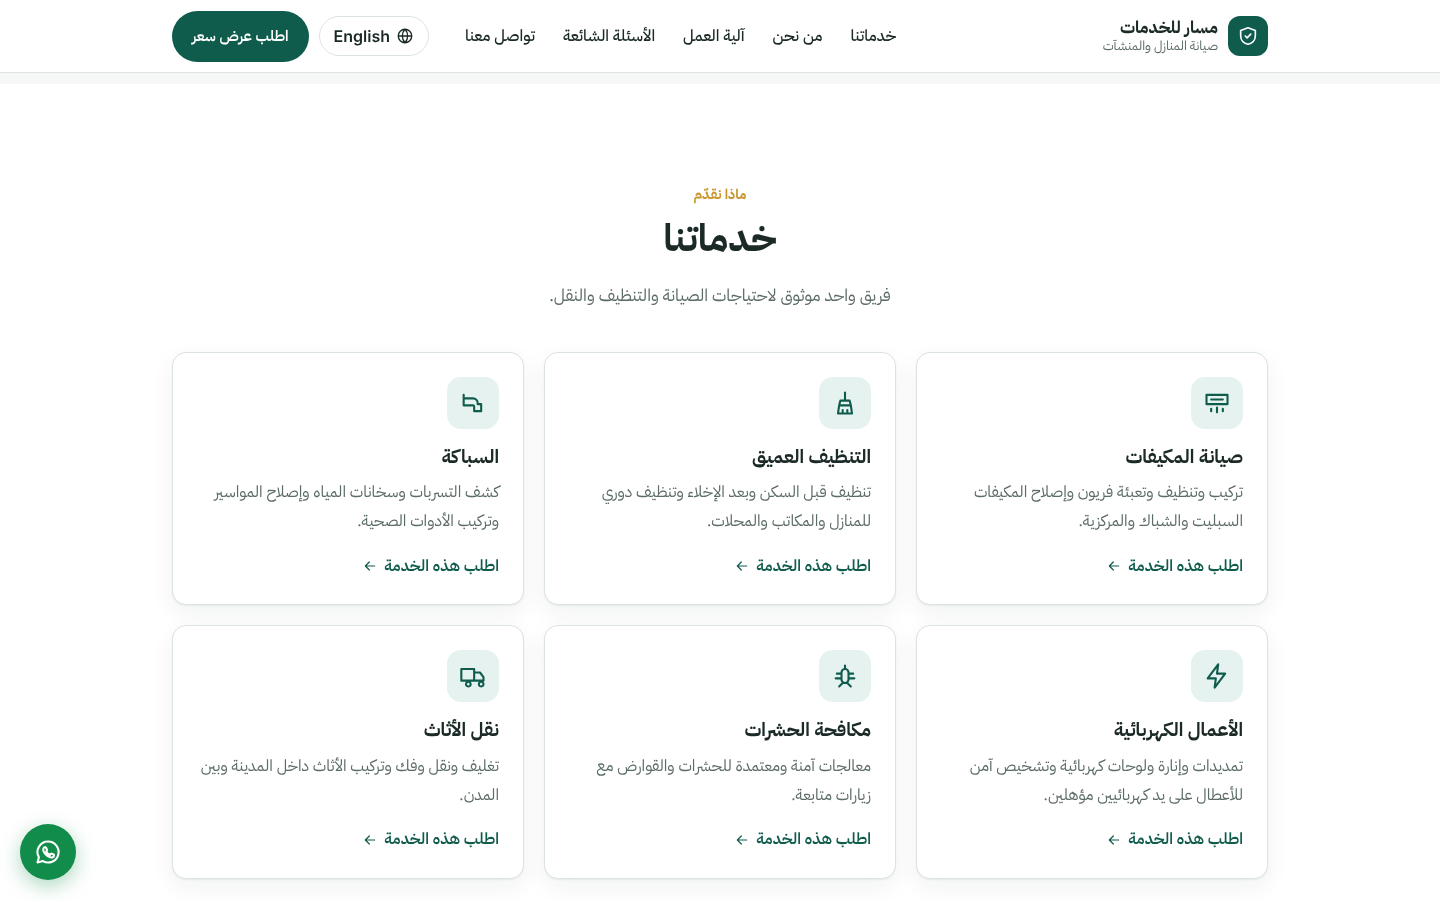
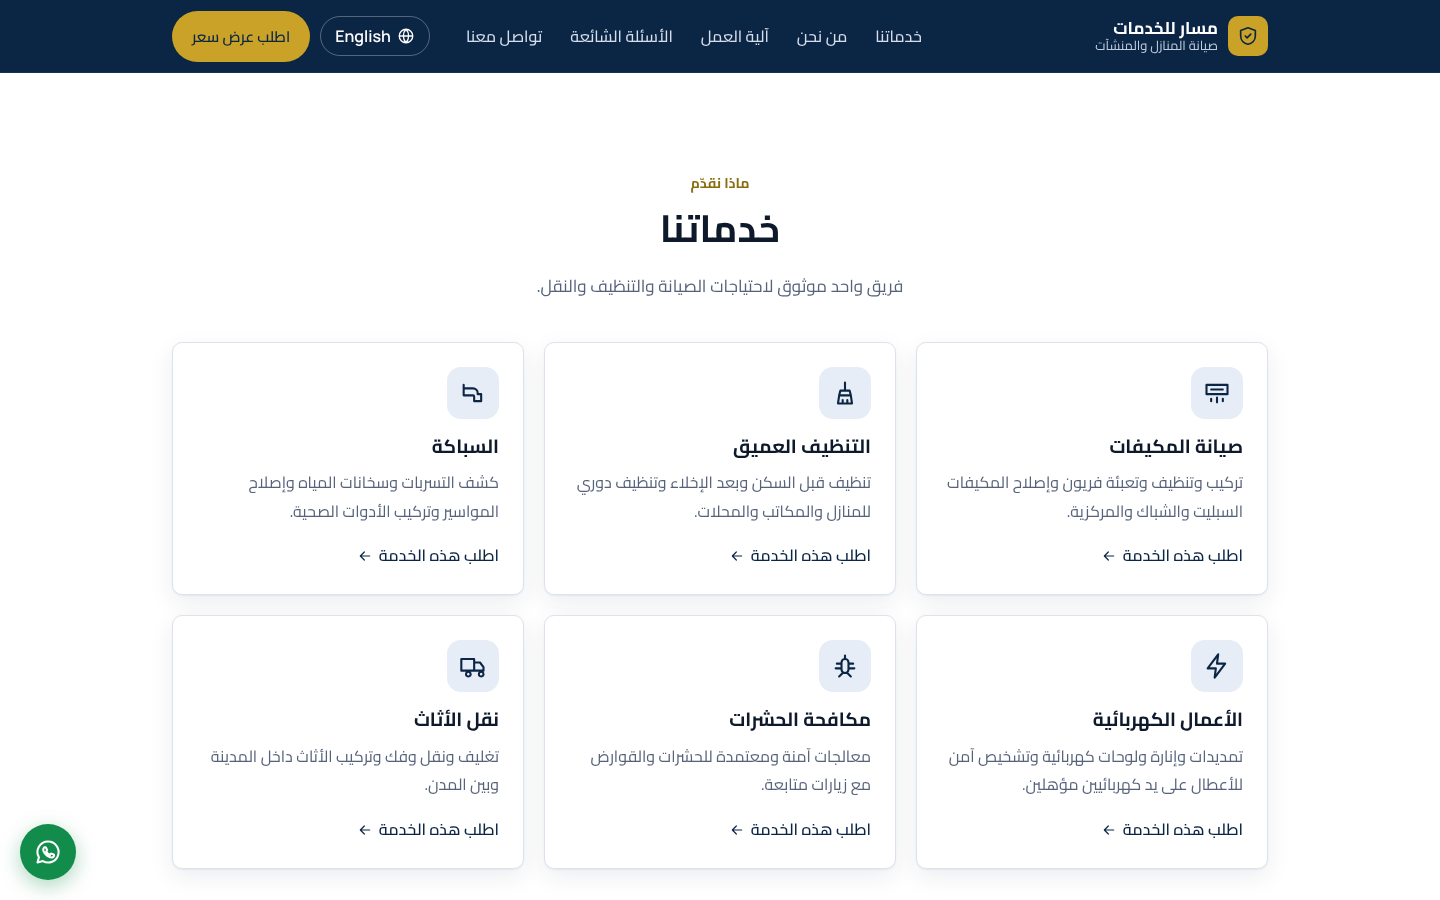
Restyle Masar with the navy and gold theme
Navy header, hero and footer with gold accents, Cairo (Arabic) and
Manrope (English) fonts via Fontsource, darker gold for small text on
white, and refreshed README screenshots and demo GIFs.

diff --git a/src/styles/global.css b/src/styles/global.css
@@ -5,18 +5,25 @@
    ========================================================================== */
 
 :root {
-  --color-primary: #0f5c4d;
-  --color-primary-dark: #0a4439;
-  --color-primary-soft: #e6f2ef;
-  --color-accent: #c9962f;
-  --color-accent-soft: #fbf3e2;
+  --color-primary: #0b2545;
+  --color-primary-dark: #061833;
+  --color-primary-soft: #e7edf6;
+  --color-accent: #c9a227;
+  --color-accent-soft: #faf3dc;
+  /* Darker gold for small text on light backgrounds (the bright gold is too faint there). */
+  --color-accent-text: #8a6d0f;
+  /* Navy hero/header surfaces and the lighter gold used on them. */
+  --color-navy-surface: #0b2545;
+  --color-navy-raised: #13325a;
+  --color-on-navy: #c3cfe0;
+  --color-gold-on-navy: #e3c35a;
   --color-whatsapp: #128c4a;
   --color-whatsapp-dark: #0d6d39;
-  --color-text: #1b2a27;
-  --color-muted: #5b6b67;
-  --color-border: #dbe4e1;
+  --color-text: #0e1a2b;
+  --color-muted: #56627a;
+  --color-border: #dde3ec;
   --color-bg: #ffffff;
-  --color-bg-alt: #f5f8f7;
+  --color-bg-alt: #f4f6fa;
   --color-error: #b42318;
   --color-error-soft: #fef3f2;
   --color-warning-soft: #fffaeb;
@@ -24,12 +31,12 @@
   --color-info-soft: #eef6ff;
   --color-info-border: #b9d7f7;
 
-  --font-latin: 'Inter Variable', 'Inter', system-ui, -apple-system, 'Segoe UI', Roboto, Arial, sans-serif;
-  --font-arabic: 'IBM Plex Sans Arabic', 'Noto Sans Arabic', 'Segoe UI', Tahoma, 'Geeza Pro', Arial, sans-serif;
+  --font-latin: 'Manrope Variable', 'Manrope', system-ui, -apple-system, 'Segoe UI', Roboto, Arial, sans-serif;
+  --font-arabic: 'Cairo Variable', 'Cairo', 'Noto Sans Arabic', 'Segoe UI', Tahoma, 'Geeza Pro', Arial, sans-serif;
 
-  --radius: 14px;
-  --radius-sm: 10px;
-  --shadow: 0 1px 2px rgb(16 40 34 / 6%), 0 8px 24px rgb(16 40 34 / 6%);
+  --radius: 10px;
+  --radius-sm: 8px;
+  --shadow: 0 1px 2px rgb(11 37 69 / 6%), 0 8px 24px rgb(11 37 69 / 8%);
   --header-h: 72px;
   --container: 1160px;
   --gutter: clamp(16px, 4vw, 32px);
@@ -307,8 +314,8 @@ main:focus {
   z-index: 50;
   /* No backdrop-filter here: it would become the containing block of the fixed
      mobile menu, and the off-canvas panel would then cause horizontal scrolling. */
-  background: rgb(255 255 255 / 97%);
-  border-block-end: 1px solid var(--color-border);
+  background: var(--color-navy-surface);
+  border-block-end: 1px solid var(--color-navy-raised);
 }
 .header-inner {
   display: flex;
@@ -320,7 +327,7 @@ main:focus {
   display: inline-flex;
   align-items: center;
   gap: 10px;
-  color: var(--color-text);
+  color: #fff;
   text-decoration: none;
   margin-inline-end: auto;
 }
@@ -329,9 +336,9 @@ main:focus {
   place-items: center;
   inline-size: 40px;
   block-size: 40px;
-  border-radius: 12px;
-  background: var(--color-primary);
-  color: #fff;
+  border-radius: 10px;
+  background: var(--color-accent);
+  color: var(--color-navy-surface);
   flex-shrink: 0;
 }
 .brand-text {
@@ -343,7 +350,7 @@ main:focus {
   font-size: 1.0625rem;
 }
 .brand-text small {
-  color: var(--color-muted);
+  color: var(--color-on-navy);
   font-size: 0.8125rem;
 }
 
@@ -361,13 +368,13 @@ main:focus {
   padding-block: 8px;
   padding-inline: 12px;
   border-radius: 8px;
-  color: var(--color-text);
+  color: #d6deeb;
   text-decoration: none;
   font-weight: 500;
 }
 .nav-list a:hover {
-  background: var(--color-primary-soft);
-  color: var(--color-primary);
+  background: rgb(255 255 255 / 8%);
+  color: #fff;
 }
 .nav-actions {
   display: flex;
@@ -381,15 +388,16 @@ main:focus {
   gap: 6px;
   min-block-size: 40px;
   padding-inline: 14px;
-  border: 1px solid var(--color-border);
+  border: 1px solid rgb(255 255 255 / 30%);
   border-radius: 999px;
-  background: #fff;
+  background: transparent;
+  color: #fff;
   cursor: pointer;
   font-weight: 600;
 }
 .lang-switch:hover {
-  border-color: var(--color-primary);
-  color: var(--color-primary);
+  border-color: var(--color-gold-on-navy);
+  color: var(--color-gold-on-navy);
 }
 
 .menu-toggle {
@@ -397,9 +405,10 @@ main:focus {
   place-items: center;
   inline-size: 44px;
   block-size: 44px;
-  border: 1px solid var(--color-border);
-  border-radius: 12px;
-  background: #fff;
+  border: 1px solid rgb(255 255 255 / 30%);
+  border-radius: 10px;
+  background: transparent;
+  color: #fff;
   cursor: pointer;
 }
 .nav-backdrop {
@@ -415,7 +424,7 @@ main:focus {
     display: block;
     position: fixed;
     inset: 0;
-    background: rgb(10 30 25 / 40%);
+    background: rgb(6 24 51 / 50%);
     opacity: 0;
     pointer-events: none;
     transition: opacity 0.25s;
@@ -436,7 +445,7 @@ main:focus {
     gap: 16px;
     padding: 24px;
     padding-block-start: calc(var(--header-h) + 8px);
-    background: #fff;
+    background: var(--color-navy-surface);
     box-shadow: var(--shadow);
     transform: translateX(var(--offcanvas-shift));
     visibility: hidden;
@@ -502,7 +511,7 @@ main:focus {
 .eyebrow {
   display: inline-block;
   margin-block-end: 8px;
-  color: var(--color-accent);
+  color: var(--color-accent-text);
   font-weight: 700;
   font-size: 0.875rem;
   letter-spacing: 0.08em;
@@ -527,8 +536,9 @@ main:focus {
 
 .hero {
   background:
-    radial-gradient(ellipse at top, var(--color-primary-soft), transparent 60%),
-    linear-gradient(180deg, #fff, var(--color-bg-alt));
+    radial-gradient(70% 90% at 15% 0%, var(--color-navy-raised), transparent 70%),
+    var(--color-navy-surface);
+  color: #fff;
   padding-block: clamp(48px, 8vw, 104px);
 }
 .hero-inner {
@@ -545,9 +555,15 @@ html:lang(ar) .hero h1 {
   letter-spacing: 0;
   line-height: 1.4;
 }
+.hero h1 {
+  color: #fff;
+}
+.hero .eyebrow {
+  color: var(--color-gold-on-navy);
+}
 .hero-subtitle {
   font-size: clamp(1.0625rem, 1.6vw, 1.1875rem);
-  color: var(--color-muted);
+  color: var(--color-on-navy);
   max-inline-size: 60ch;
 }
 .hero-ctas {
@@ -572,6 +588,21 @@ html:lang(ar) .hero h1 {
   color: var(--color-primary);
   flex-shrink: 0;
 }
+.hero-points li {
+  color: #e4eaf3;
+}
+.hero-points .icon {
+  color: var(--color-gold-on-navy);
+}
+.site-header .btn-primary,
+.hero .btn-primary {
+  background: var(--color-accent);
+  color: var(--color-navy-surface);
+}
+.site-header .btn-primary:hover,
+.hero .btn-primary:hover {
+  background: var(--color-gold-on-navy);
+}
 .hero-visual {
   position: relative;
 }
@@ -580,8 +611,9 @@ html:lang(ar) .hero h1 {
   grid-template-columns: repeat(2, 1fr);
   gap: 16px;
   padding: 28px;
-  border-radius: 28px;
-  background: var(--color-primary);
+  border: 1px solid rgb(201 162 39 / 45%);
+  border-radius: 16px;
+  background: linear-gradient(160deg, var(--color-navy-raised), var(--color-navy-surface));
   color: #fff;
   aspect-ratio: 1;
 }
@@ -592,7 +624,7 @@ html:lang(ar) .hero h1 {
   opacity: 0.95;
 }
 .hero-art > :nth-child(even) {
-  color: var(--color-accent);
+  color: var(--color-gold-on-navy);
 }
 .hero-card {
   position: absolute;
@@ -774,7 +806,7 @@ html:lang(ar) .hero h1 {
   margin-block-end: 14px;
   border-radius: 50%;
   background: var(--color-accent);
-  color: #fff;
+  color: var(--color-navy-surface);
   font-weight: 700;
 }
 @media (max-width: 960px) {
@@ -1061,12 +1093,12 @@ html[dir='rtl'] .field [dir='auto'] {
 /* ---------- Footer ---------- */
 
 .site-footer {
-  background: #0c2d27;
-  color: #c5d6d1;
+  background: var(--color-primary-dark);
+  color: var(--color-on-navy);
   padding-block: 56px 24px;
 }
 .site-footer a {
-  color: #e8f1ee;
+  color: #e4eaf3;
   text-decoration: none;
 }
 .site-footer a:hover {
@@ -1163,7 +1195,7 @@ html[dir='rtl'] .field [dir='auto'] {
   gap: 10px;
   padding: 14px 16px;
   border-radius: var(--radius-sm);
-  background: #102b25;
+  background: var(--color-primary-dark);
   color: #fff;
   box-shadow: var(--shadow);
   pointer-events: auto;

diff --git a/src/main.tsx b/src/main.tsx
@@ -1,10 +1,7 @@
 import { StrictMode } from 'react'
 import { createRoot } from 'react-dom/client'
-import '@fontsource-variable/inter'
-import '@fontsource/ibm-plex-sans-arabic/400.css'
-import '@fontsource/ibm-plex-sans-arabic/500.css'
-import '@fontsource/ibm-plex-sans-arabic/600.css'
-import '@fontsource/ibm-plex-sans-arabic/700.css'
+import '@fontsource-variable/cairo'
+import '@fontsource-variable/manrope'
 import './styles/global.css'
 import App from './App'
 import { ToastProvider } from './components/ToastProvider'

diff --git a/index.html b/index.html
@@ -4,7 +4,7 @@
     <meta charset="UTF-8" />
     <link rel="icon" type="image/svg+xml" href="/favicon.svg" />
     <meta name="viewport" content="width=device-width, initial-scale=1.0" />
-    <meta name="theme-color" content="#0f5c4d" />
+    <meta name="theme-color" content="#0b2545" />
     <meta name="description" content="Masar Services — home and facility maintenance in Saudi Arabia." />
     <title>Masar Services | مسار للخدمات</title>
     <script>
